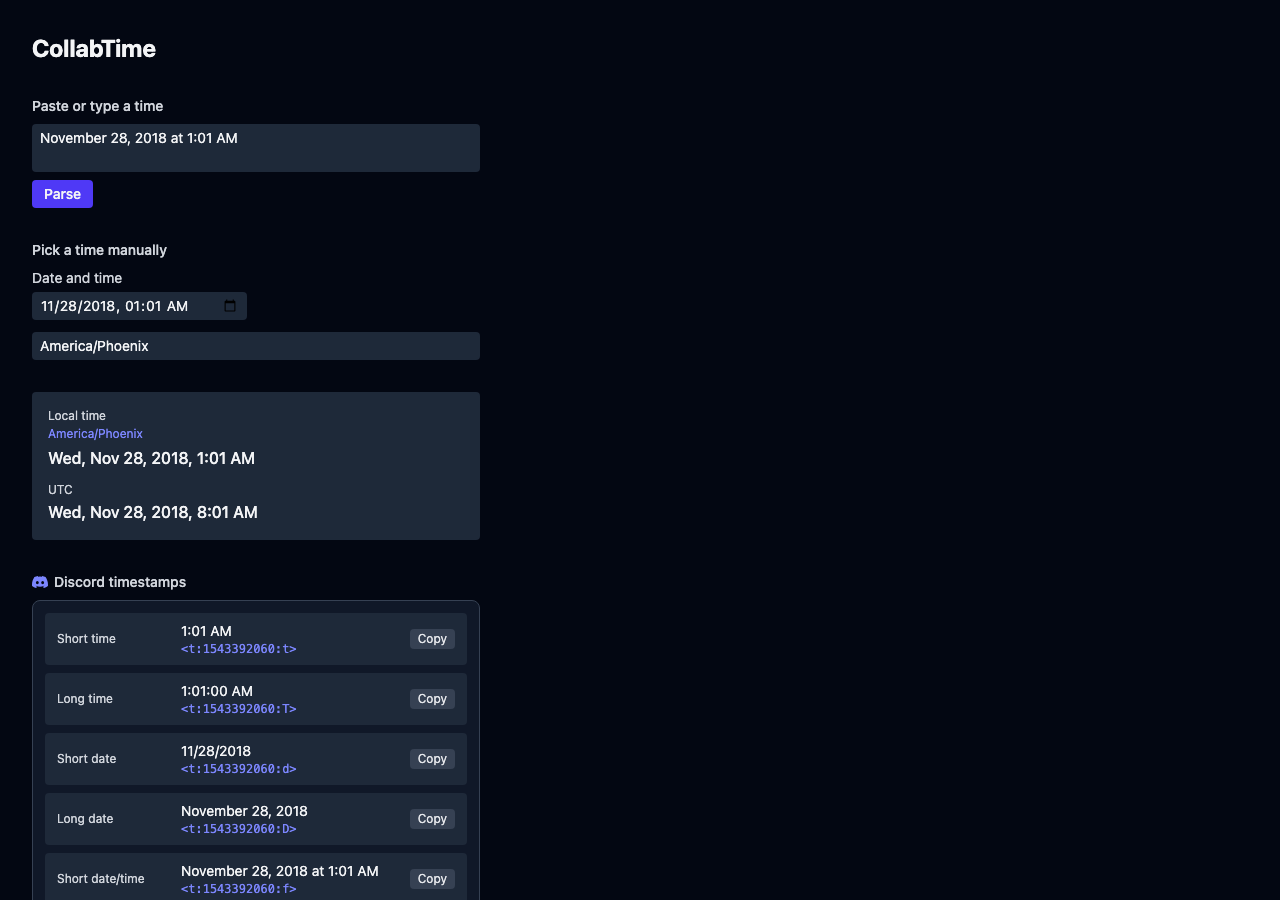
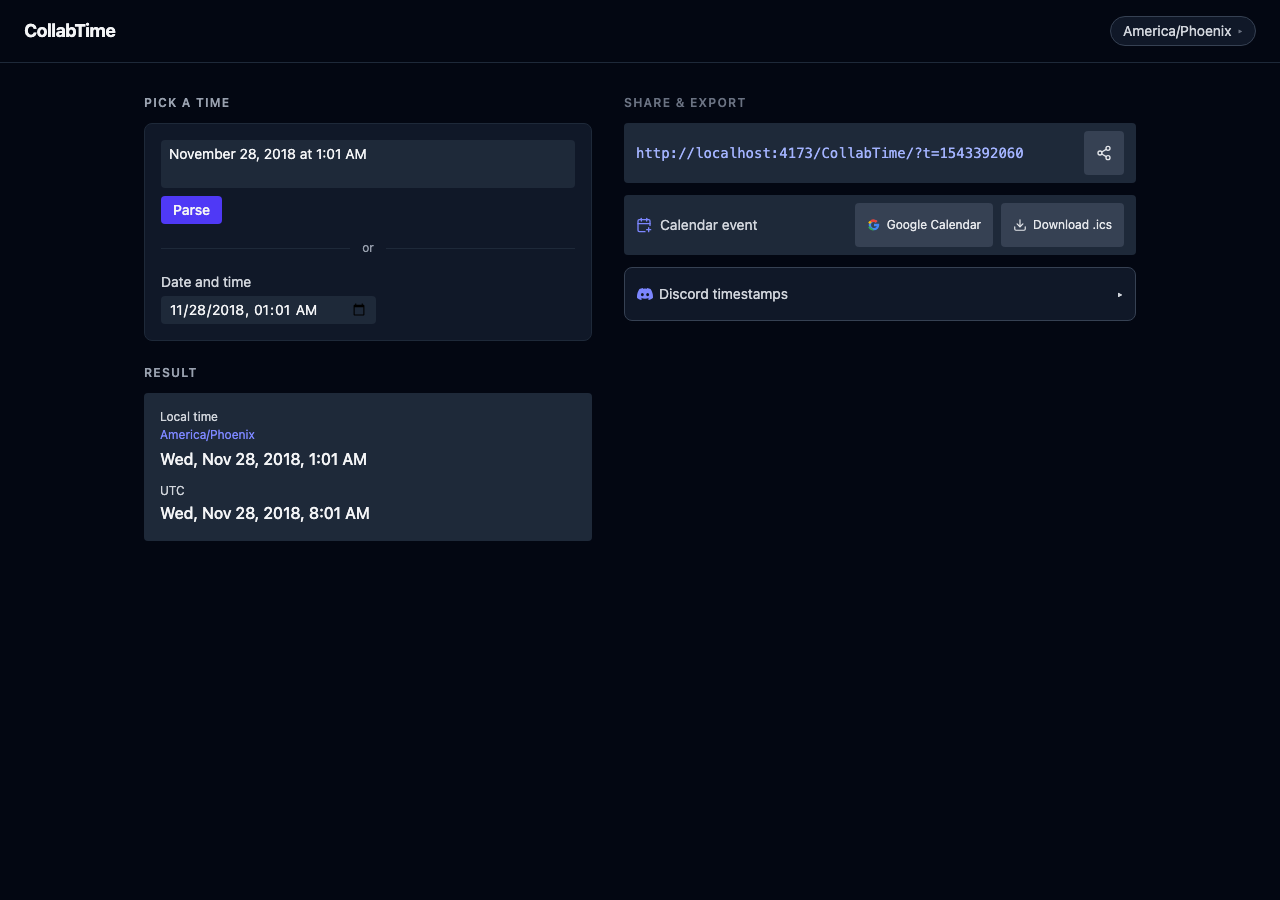
[export] Added calendar exports
* iCal file
* Google Calendar event generation link

diff --git a/src/utils/calendarExport.test.ts b/src/utils/calendarExport.test.ts
@@ -1,0 +1,82 @@
+import { describe, it, expect } from 'vitest'
+import { buildIcsContent, buildGoogleCalendarUrl } from './calendarExport'
+
+// Nov 28 2018 11:01:00 UTC — 1543392060 unix seconds
+const FIXED_MS = 1543392060000
+
+describe('buildIcsContent', () => {
+  it('wraps content in VCALENDAR and VEVENT blocks', () => {
+    const ics = buildIcsContent(FIXED_MS)
+    expect(ics).toContain('BEGIN:VCALENDAR')
+    expect(ics).toContain('END:VCALENDAR')
+    expect(ics).toContain('BEGIN:VEVENT')
+    expect(ics).toContain('END:VEVENT')
+  })
+
+  it('DTSTART matches the input timestamp in UTC', () => {
+    const ics = buildIcsContent(FIXED_MS)
+    // Nov 28 2018 08:01:00 UTC → 20181128T080100Z
+    expect(ics).toContain('DTSTART:20181128T080100Z')
+  })
+
+  it('DTEND is exactly 1 hour after DTSTART', () => {
+    const ics = buildIcsContent(FIXED_MS)
+    // 08:01:00 + 1h → 09:01:00
+    expect(ics).toContain('DTEND:20181128T090100Z')
+  })
+
+  it('UID contains the unix seconds', () => {
+    const ics = buildIcsContent(FIXED_MS)
+    expect(ics).toContain('UID:1543392060@collabtime')
+  })
+
+  it('uses CRLF line endings throughout', () => {
+    const ics = buildIcsContent(FIXED_MS)
+    // Every line should end with \r\n
+    const lines = ics.split('\r\n')
+    // Last element will be empty string after final CRLF
+    expect(lines.length).toBeGreaterThan(5)
+    // Ensure there are no bare \n (i.e., no line ends with just \n without \r before it)
+    expect(ics).not.toMatch(/(?<!\r)\n/)
+  })
+
+  it('includes the CollabTime Event summary', () => {
+    const ics = buildIcsContent(FIXED_MS)
+    expect(ics).toContain('SUMMARY:CollabTime Event')
+  })
+})
+
+describe('buildGoogleCalendarUrl', () => {
+  it('returns a Google Calendar render URL', () => {
+    const url = buildGoogleCalendarUrl(FIXED_MS)
+    expect(url).toContain('https://calendar.google.com/calendar/render')
+  })
+
+  it('includes action=TEMPLATE', () => {
+    const url = buildGoogleCalendarUrl(FIXED_MS)
+    expect(url).toContain('action=TEMPLATE')
+  })
+
+  it('sets text to CollabTime Event', () => {
+    const url = buildGoogleCalendarUrl(FIXED_MS)
+    expect(url).toContain('text=CollabTime+Event')
+  })
+
+  it('encodes dates with DTSTART in UTC', () => {
+    const url = buildGoogleCalendarUrl(FIXED_MS)
+    // dates param starts with the UTC datetime of FIXED_MS
+    expect(url).toContain('20181128T080100Z')
+  })
+
+  it('sets DTEND to 1 hour after DTSTART', () => {
+    const url = buildGoogleCalendarUrl(FIXED_MS)
+    expect(url).toContain('20181128T090100Z')
+  })
+
+  it('separates start and end with a slash in the dates param', () => {
+    const url = buildGoogleCalendarUrl(FIXED_MS)
+    const params = new URL(url).searchParams
+    const dates = params.get('dates') ?? ''
+    expect(dates).toMatch(/^[0-9T]+Z\/[0-9T]+Z$/)
+  })
+})

diff --git a/src/components/CalendarExport.test.tsx b/src/components/CalendarExport.test.tsx
@@ -1,0 +1,75 @@
+import { render, screen, fireEvent, act } from '@testing-library/react'
+import { describe, it, expect, vi, beforeEach, afterEach } from 'vitest'
+import { CalendarExport } from './CalendarExport'
+
+const FIXED_MS = 1543392060000
+
+describe('CalendarExport', () => {
+  beforeEach(() => {
+    vi.useFakeTimers()
+    vi.stubGlobal('URL', {
+      createObjectURL: vi.fn(() => 'blob:fake-url'),
+      revokeObjectURL: vi.fn(),
+    })
+  })
+
+  afterEach(() => {
+    vi.useRealTimers()
+    vi.unstubAllGlobals()
+  })
+
+  it('renders nothing when timestamp is null', () => {
+    const { container } = render(<CalendarExport timestamp={null} />)
+    expect(container.firstChild).toBeNull()
+  })
+
+  it('renders a download button when timestamp is set', () => {
+    render(<CalendarExport timestamp={FIXED_MS} />)
+    expect(screen.getByRole('button', { name: /download .ics/i })).toBeDefined()
+  })
+
+  it('calls URL.createObjectURL on click', async () => {
+    render(<CalendarExport timestamp={FIXED_MS} />)
+    await act(async () => {
+      fireEvent.click(screen.getByRole('button', { name: /download .ics/i }))
+    })
+    expect(URL.createObjectURL).toHaveBeenCalledOnce()
+  })
+
+  it('shows "Downloaded!" after click', async () => {
+    render(<CalendarExport timestamp={FIXED_MS} />)
+    await act(async () => {
+      fireEvent.click(screen.getByRole('button', { name: /download .ics/i }))
+    })
+    expect(screen.getByText('Downloaded!')).toBeDefined()
+  })
+
+  it('clears "Downloaded!" after 2 seconds', async () => {
+    render(<CalendarExport timestamp={FIXED_MS} />)
+    await act(async () => {
+      fireEvent.click(screen.getByRole('button', { name: /download .ics/i }))
+    })
+    expect(screen.getByText('Downloaded!')).toBeDefined()
+    act(() => { vi.advanceTimersByTime(2000) })
+    expect(screen.queryByText('Downloaded!')).toBeNull()
+  })
+
+  it('renders a Google Calendar link when timestamp is set', () => {
+    render(<CalendarExport timestamp={FIXED_MS} />)
+    const link = screen.getByRole('link', { name: /google calendar/i })
+    expect(link).toBeDefined()
+  })
+
+  it('Google Calendar link opens calendar.google.com in a new tab', () => {
+    render(<CalendarExport timestamp={FIXED_MS} />)
+    const link = screen.getByRole('link', { name: /google calendar/i }) as HTMLAnchorElement
+    expect(link.href).toContain('calendar.google.com')
+    expect(link.target).toBe('_blank')
+  })
+
+  it('Google Calendar link href encodes the correct timestamp', () => {
+    render(<CalendarExport timestamp={FIXED_MS} />)
+    const link = screen.getByRole('link', { name: /google calendar/i }) as HTMLAnchorElement
+    expect(link.href).toContain('20181128T080100Z')
+  })
+})

diff --git a/src/components/CalendarExport.tsx b/src/components/CalendarExport.tsx
@@ -1,0 +1,61 @@
+import { useState } from 'react'
+import { CalendarPlus, Download } from 'lucide-react'
+import { buildIcsContent, buildGoogleCalendarUrl } from '../utils/calendarExport'
+
+interface Props {
+  timestamp: number | null
+}
+
+export function CalendarExport({ timestamp }: Props) {
+  const [downloaded, setDownloaded] = useState(false)
+
+  if (timestamp === null) return null
+
+  const handleDownload = () => {
+    const icsContent = buildIcsContent(timestamp)
+    const blob = new Blob([icsContent], { type: 'text/calendar;charset=utf-8' })
+    const url = URL.createObjectURL(blob)
+    const anchor = document.createElement('a')
+    anchor.href = url
+    anchor.download = 'collabtime-event.ics'
+    anchor.click()
+    URL.revokeObjectURL(url)
+    setDownloaded(true)
+    setTimeout(() => setDownloaded(false), 2000)
+  }
+
+  const googleCalendarUrl = buildGoogleCalendarUrl(timestamp)
+
+  return (
+    <div className="flex items-center gap-2 rounded bg-gray-800 px-3 py-2">
+      <CalendarPlus aria-hidden="true" className="w-4 h-4 text-indigo-400 shrink-0" />
+      <span className="flex-1 text-sm text-gray-300">Calendar event</span>
+      <a
+        href={googleCalendarUrl}
+        target="_blank"
+        rel="noopener noreferrer"
+        aria-label="Add to Google Calendar"
+        className="min-h-[44px] px-3 rounded bg-gray-700 hover:bg-gray-600 text-gray-200 text-xs shrink-0 flex items-center gap-1.5"
+      >
+        <svg aria-hidden="true" viewBox="0 0 24 24" className="w-3.5 h-3.5 shrink-0">
+          <path fill="#4285F4" d="M21.8 10.6H21V10h-9v4h4.9a5 5 0 0 1-4.9 3 5 5 0 0 1 0-10 5 5 0 0 1 3.2 1.1l2.8-2.8A9 9 0 1 0 12 21a9 9 0 0 0 9-9 9 9 0 0 0-.2-1.4Z"/>
+          <path fill="#34A853" d="M5.3 13.7 2.1 16a9 9 0 0 0 9.9 5l-2.8-2.8A5 5 0 0 1 5.3 13.7Z"/>
+          <path fill="#FBBC04" d="M5.3 10.3a5 5 0 0 1 2.9-2.9L5.4 4.6A9 9 0 0 0 2.1 8z"/>
+          <path fill="#EA4335" d="M12 7a5 5 0 0 1 3.2 1.1l2.8-2.8A9 9 0 0 0 5.4 4.6l2.8 2.8A5 5 0 0 1 12 7Z"/>
+        </svg>
+        Google Calendar
+      </a>
+      <button
+        aria-label="Download .ics"
+        aria-live="polite"
+        onClick={handleDownload}
+        className="min-h-[44px] px-3 rounded bg-gray-700 hover:bg-gray-600 text-gray-200 text-xs shrink-0 flex items-center gap-1.5"
+      >
+        {downloaded
+          ? 'Downloaded!'
+          : <><Download aria-hidden="true" className="w-3.5 h-3.5" />Download .ics</>
+        }
+      </button>
+    </div>
+  )
+}

diff --git a/src/utils/calendarExport.ts b/src/utils/calendarExport.ts
@@ -1,0 +1,49 @@
+function toIcsDate(ms: number): string {
+  const date = new Date(ms)
+  const pad = (n: number) => String(n).padStart(2, '0')
+  const year = date.getUTCFullYear()
+  const month = pad(date.getUTCMonth() + 1)
+  const day = pad(date.getUTCDate())
+  const hours = pad(date.getUTCHours())
+  const minutes = pad(date.getUTCMinutes())
+  const seconds = pad(date.getUTCSeconds())
+  return `${year}${month}${day}T${hours}${minutes}${seconds}Z`
+}
+
+export function buildGoogleCalendarUrl(timestampMs: number): string {
+  const ONE_HOUR_MS = 60 * 60 * 1000
+  const start = toIcsDate(timestampMs)
+  const end = toIcsDate(timestampMs + ONE_HOUR_MS)
+  const params = new URLSearchParams({
+    action: 'TEMPLATE',
+    text: 'CollabTime Event',
+    dates: `${start}/${end}`,
+  })
+  return `https://calendar.google.com/calendar/render?${params}`
+}
+
+export function buildIcsContent(timestampMs: number): string {
+  const ONE_HOUR_MS = 60 * 60 * 1000
+  const dtstart = toIcsDate(timestampMs)
+  const dtend = toIcsDate(timestampMs + ONE_HOUR_MS)
+  const dtstamp = toIcsDate(Date.now())
+  const unixSeconds = Math.floor(timestampMs / 1000)
+  const uid = `${unixSeconds}@collabtime`
+
+  const lines = [
+    'BEGIN:VCALENDAR',
+    'VERSION:2.0',
+    'PRODID:-//CollabTime//CollabTime//EN',
+    'BEGIN:VEVENT',
+    `UID:${uid}`,
+    `DTSTAMP:${dtstamp}`,
+    `DTSTART:${dtstart}`,
+    `DTEND:${dtend}`,
+    'SUMMARY:CollabTime Event',
+    'END:VEVENT',
+    'END:VCALENDAR',
+    '',
+  ]
+
+  return lines.join('\r\n')
+}

diff --git a/src/a11y.test.tsx b/src/a11y.test.tsx
@@ -7,6 +7,7 @@ import { ManualSelector } from './components/ManualSelector'
 import { ConversionDisplay } from './components/ConversionDisplay'
 import { DiscordExport } from './components/DiscordExport'
 import { ShareLink } from './components/ShareLink'
+import { CalendarExport } from './components/CalendarExport'
 import { TimezoneSelect } from './components/TimezoneSelect'
 
 // Nov 28 2018 11:01:00 UTC — a fixed, well-known timestamp
@@ -67,5 +68,19 @@ describe('Accessibility: no axe violations', () => {
     })
     const { container } = render(<ShareLink timestamp={FIXED_MS} />)
     expect(await axe(container)).toHaveNoViolations()
+  })
+
+  it('CalendarExport — renders download button with accessible label', async () => {
+    vi.stubGlobal('URL', {
+      createObjectURL: vi.fn(() => 'blob:fake-url'),
+      revokeObjectURL: vi.fn(),
+    })
+    const { container, getByRole } = render(<CalendarExport timestamp={FIXED_MS} />)
+    const button = getByRole('button', { name: /download .ics/i })
+    expect(button).toBeDefined()
+    // Meets minimum 44px touch target via min-h-[44px] Tailwind class
+    expect(button.className).toContain('min-h-[44px]')
+    expect(await axe(container)).toHaveNoViolations()
+    vi.unstubAllGlobals()
   })
 })

diff --git a/scripts/screenshots.js b/scripts/screenshots.js
@@ -35,6 +35,16 @@ mkdirSync(OUTPUT_DIR, { recursive: true })
 
 // ── Server lifecycle ──────────────────────────────────────────────────────────
 
+// Kill any process already occupying the preview port so we always serve
+// from this working directory, not a leftover server from another worktree.
+try {
+  const pids = execSync(`lsof -ti :${PREVIEW_PORT}`, { stdio: 'pipe' }).toString().trim()
+  if (pids) {
+    console.warn(`⚠ Killing existing process(es) on port ${PREVIEW_PORT} (PIDs: ${pids.replace(/\n/g, ', ')})`)
+    execSync(`echo ${pids} | xargs kill -9`, { stdio: 'pipe' })
+  }
+} catch { /* nothing was running on that port */ }
+
 const previewProcess = spawn(
   'node_modules/.bin/vite',
   ['preview', '--port', String(PREVIEW_PORT)],

diff --git a/src/App.tsx b/src/App.tsx
@@ -6,6 +6,7 @@ import { ManualSelector } from './components/ManualSelector'
 import { ConversionDisplay } from './components/ConversionDisplay'
 import { DiscordExport } from './components/DiscordExport'
 import { ShareLink } from './components/ShareLink'
+import { CalendarExport } from './components/CalendarExport'
 import { TimezoneSelect } from './components/TimezoneSelect'
 import { getAllFormats } from './utils/discordTimestamp'
 
@@ -123,6 +124,7 @@ function App() {
               Share &amp; Export
             </h2>
             <ShareLink timestamp={timestamp} />
+            <CalendarExport timestamp={timestamp} />
             <div className="rounded-lg border border-gray-700 bg-gray-900 p-3">
               <DiscordExport timestamp={timestamp} timezone={timezone} />
             </div>
